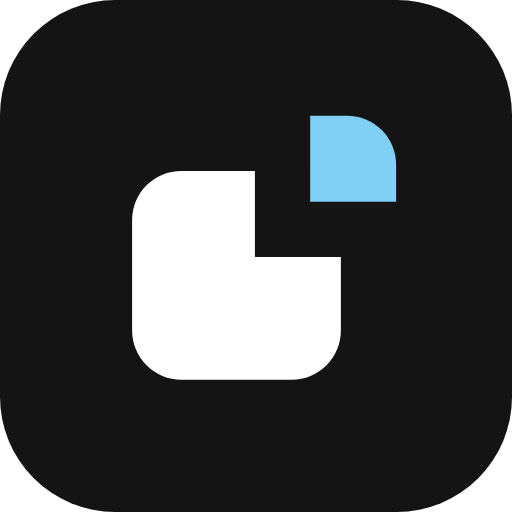
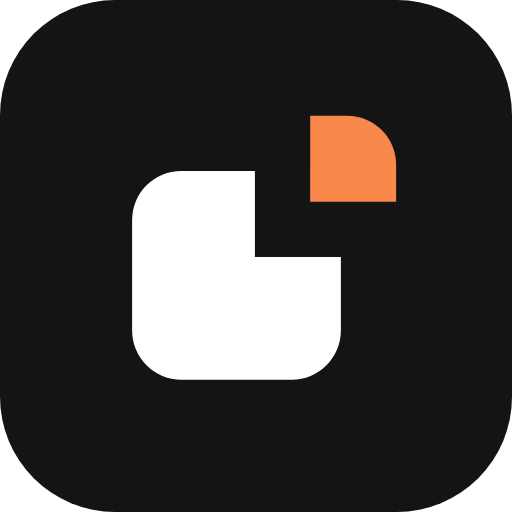
feat(web): persimmon brand across the site

Changed region(s): [[0.5938, 0.2188, 0.7812, 0.4062]]

diff --git a/apps/web/src/app/globals.css b/apps/web/src/app/globals.css
@@ -481,12 +481,12 @@ body:has([data-chat-launcher]) footer {
   --page: var(--background);
   --island: var(--surface-muted);
   --island-hover: var(--accent);
-  --brand: oklch(60% 0.115 232);
-  --brand-text: oklch(45% 0.11 236);
-  --brand-soft: oklch(95% 0.03 228);
-  --brand-line: oklch(86% 0.06 228);
-  --brand-highlight: oklch(80% 0.1 228);
-  --brand-highlight-foreground: oklch(20% 0.035 240);
+  --brand: oklch(68% 0.185 42);
+  --brand-text: oklch(54% 0.17 38);
+  --brand-soft: oklch(95.5% 0.03 50);
+  --brand-line: oklch(86% 0.07 45);
+  --brand-highlight: oklch(80% 0.12 48);
+  --brand-highlight-foreground: oklch(20% 0.03 40);
 }
 
 @theme inline {
@@ -503,12 +503,12 @@ body:has([data-chat-launcher]) footer {
 
 .dark {
   --island-hover: var(--card);
-  --brand: oklch(80% 0.1 228);
-  --brand-text: oklch(84% 0.09 228);
-  --brand-soft: oklch(29% 0.045 232);
-  --brand-line: oklch(40% 0.06 232);
-  --brand-highlight: oklch(80% 0.1 228);
-  --brand-highlight-foreground: oklch(20% 0.035 240);
+  --brand: oklch(74% 0.155 48);
+  --brand-text: oklch(78% 0.13 50);
+  --brand-soft: oklch(28% 0.06 40);
+  --brand-line: oklch(40% 0.08 42);
+  --brand-highlight: oklch(80% 0.12 48);
+  --brand-highlight-foreground: oklch(20% 0.03 40);
 }
 
 /* The floating header: a 44px row of pills with 12px of air above and below.

diff --git a/apps/web/src/features/chat/ui/chat-markdown-content.tsx b/apps/web/src/features/chat/ui/chat-markdown-content.tsx
@@ -76,7 +76,7 @@ export function ChatMarkdownContent({ content }: MarkdownContentProps) {
               href={href}
               target="_blank"
               rel="noopener noreferrer"
-              className="text-primary wrap-break-words hover:text-primary/80 font-medium underline underline-offset-4 transition-colors"
+              className="text-foreground wrap-break-words decoration-primary hover:decoration-foreground font-medium underline decoration-2 underline-offset-4 transition-colors"
             >
               {children}
             </a>

diff --git a/apps/web/src/features/landing/components/preview-cards/preview-filter.tsx b/apps/web/src/features/landing/components/preview-cards/preview-filter.tsx
@@ -19,10 +19,10 @@ export function PreviewFilter() {
         <Slider.Thumb aria-label="Maximum price" />
       </Slider>
       <div className="flex flex-wrap gap-1.5">
-        <Badge variant="info" className="text-xs">
+        <Badge variant="secondary" className="text-xs">
           Wifi
         </Badge>
-        <Badge variant="info" className="text-xs">
+        <Badge variant="secondary" className="text-xs">
           Pets
         </Badge>
         <Badge variant="outline" className="text-xs">

diff --git a/apps/web/src/features/landing/components/preview-cards/preview-ai-chat.tsx b/apps/web/src/features/landing/components/preview-cards/preview-ai-chat.tsx
@@ -40,10 +40,10 @@ export function PreviewAiChat() {
         </Bubble>
       </Bubble.Group>
       <div className="flex gap-1.5">
-        <Badge variant="info" className="font-mono text-xs">
+        <Badge variant="secondary" className="font-mono text-xs">
           guide.pdf
         </Badge>
-        <Badge variant="info" className="font-mono text-xs">
+        <Badge variant="secondary" className="font-mono text-xs">
           forecast
         </Badge>
       </div>

diff --git a/apps/web/src/features/landing/components/preview-cards/preview-stay.tsx b/apps/web/src/features/landing/components/preview-cards/preview-stay.tsx
@@ -20,7 +20,7 @@ export function PreviewStay() {
           <p className="text-foreground text-sm font-semibold">Lakeside cabin</p>
           <p className="text-muted-foreground text-xs">Bariloche, 2 guests</p>
         </div>
-        <Badge variant="info" className="gap-1 text-xs">
+        <Badge variant="secondary" className="gap-1 text-xs">
           <StarIcon size={12} fill="currentColor" aria-hidden="true" />
           4.9
         </Badge>

diff --git a/apps/web/src/features/landing/components/preview-cards/preview-profile.tsx b/apps/web/src/features/landing/components/preview-cards/preview-profile.tsx
@@ -31,7 +31,7 @@ export function PreviewProfile() {
           <p className="text-muted-foreground text-xs">Product designer in Córdoba</p>
         </div>
         <div className="flex gap-1.5">
-          <Badge variant="info" className="text-xs">
+          <Badge variant="secondary" className="text-xs">
             Design systems
           </Badge>
           <Badge variant="secondary" className="text-xs">

diff --git a/apps/web/src/features/landing/components/preview-cards/preview-ai-summary.tsx b/apps/web/src/features/landing/components/preview-cards/preview-ai-summary.tsx
@@ -16,7 +16,7 @@ export function PreviewAiSummary() {
     <Card className="gap-3 p-4">
       <div className="flex items-center justify-between">
         <p className="text-foreground text-sm font-semibold">Research summary</p>
-        <Badge variant="info" className="font-mono text-xs">
+        <Badge variant="secondary" className="font-mono text-xs">
           3 sources
         </Badge>
       </div>
